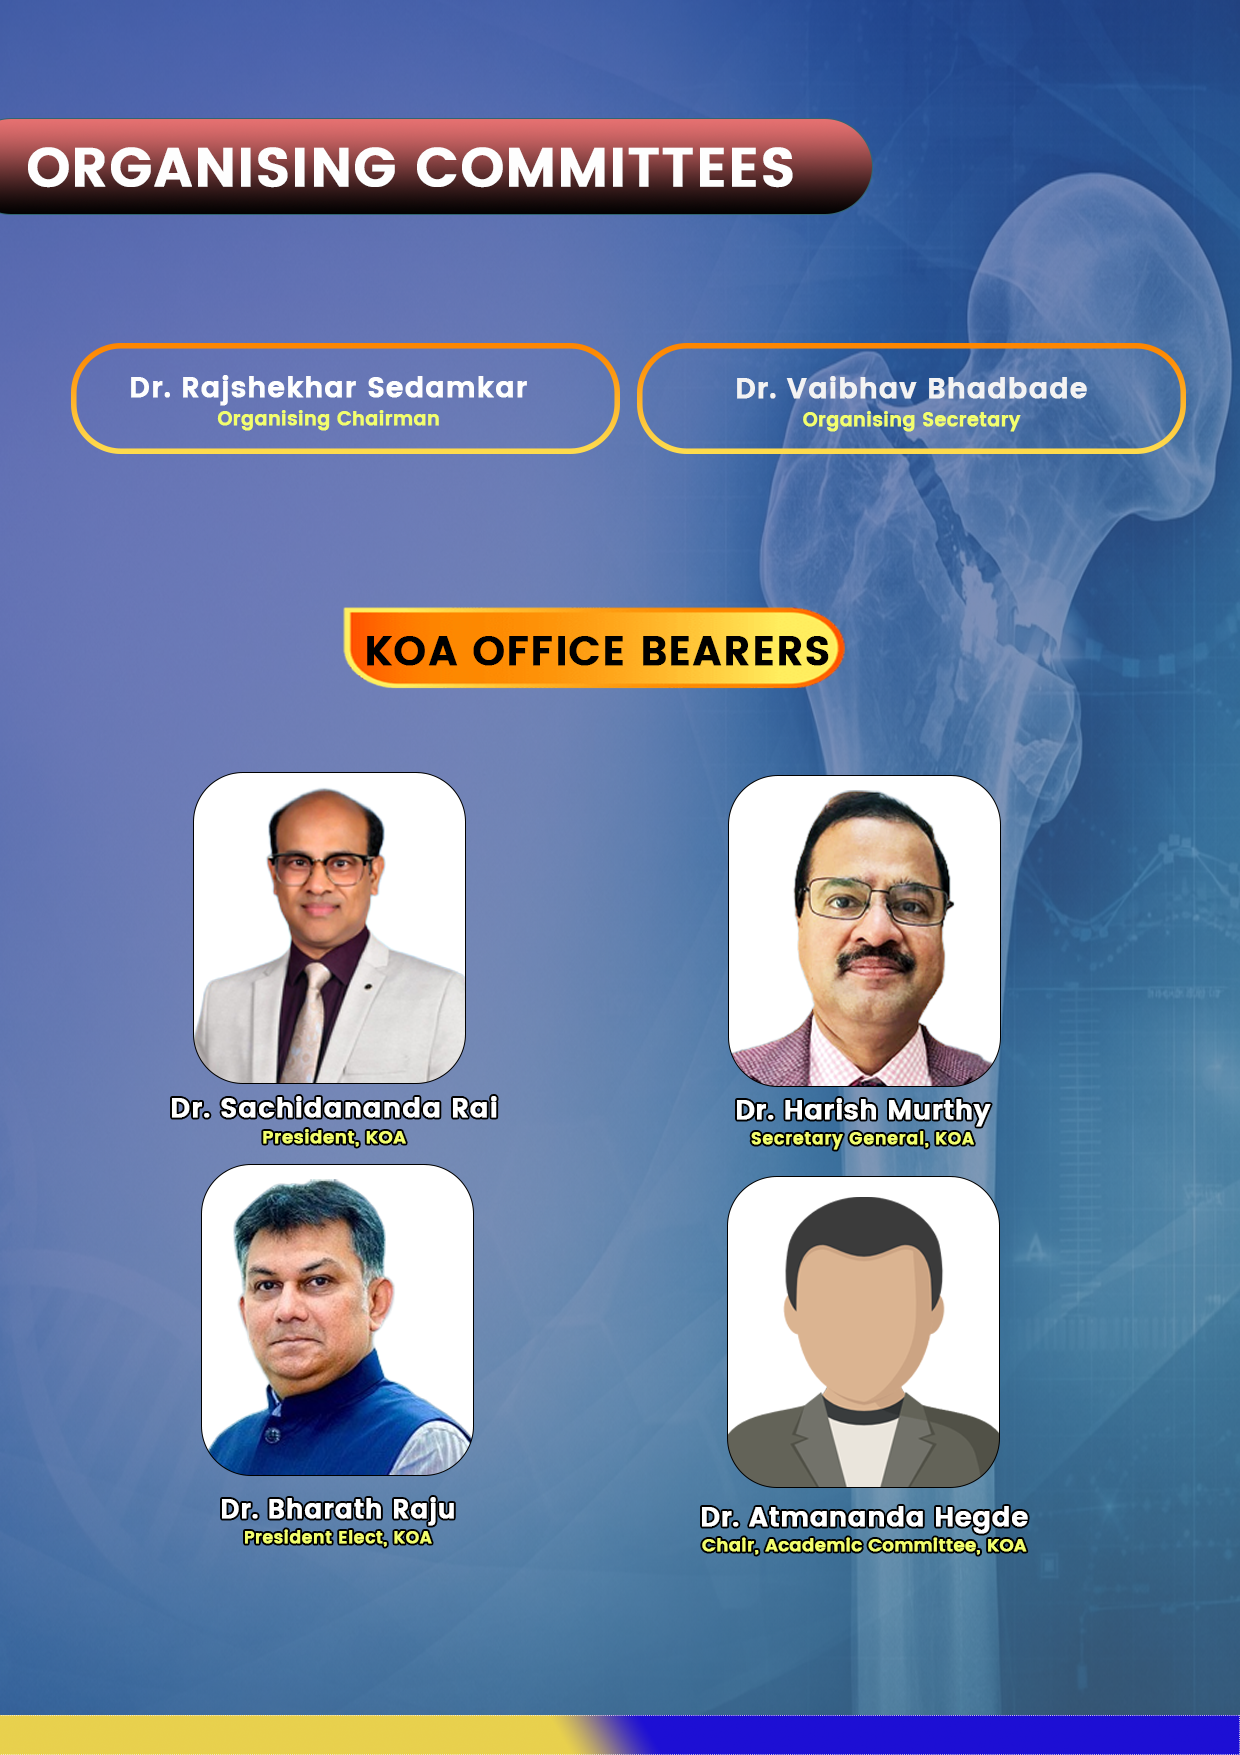
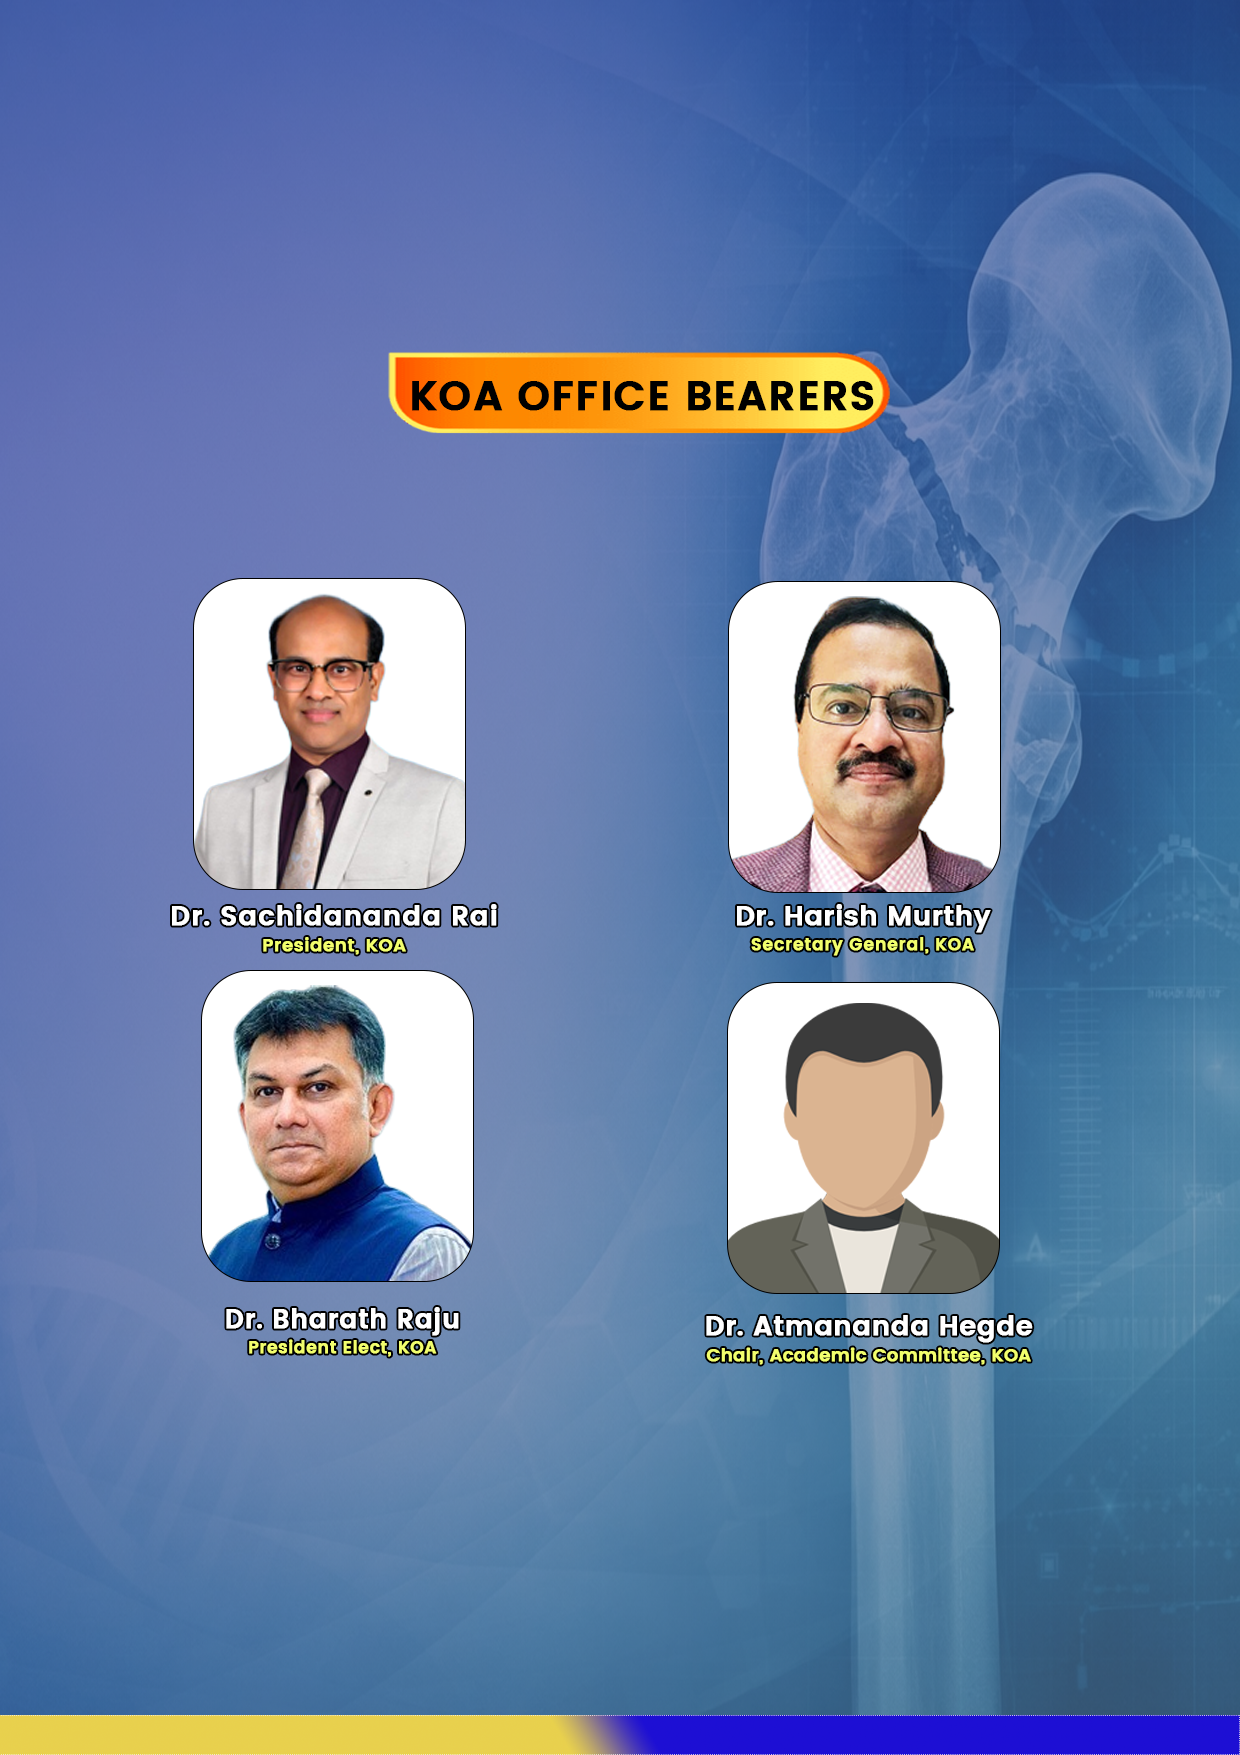
commitee update

diff --git a/Orthopaedicevent/index.html b/Orthopaedicevent/index.html
@@ -291,6 +291,14 @@ BBidar5_ortho
     </div> 
   </div>
 </section>
+
+    <section class="office-section2" id="register2">
+  <div class="office-container2">
+  <div class="image-wrapper">
+      <img src="./images/BBidar5_ortho1.png" alt="Oraganising update Committee" class="office-img2">
+    </div> 
+  </div>
+</section>
  <!-- Oraganising update Committee   -->
 
 
